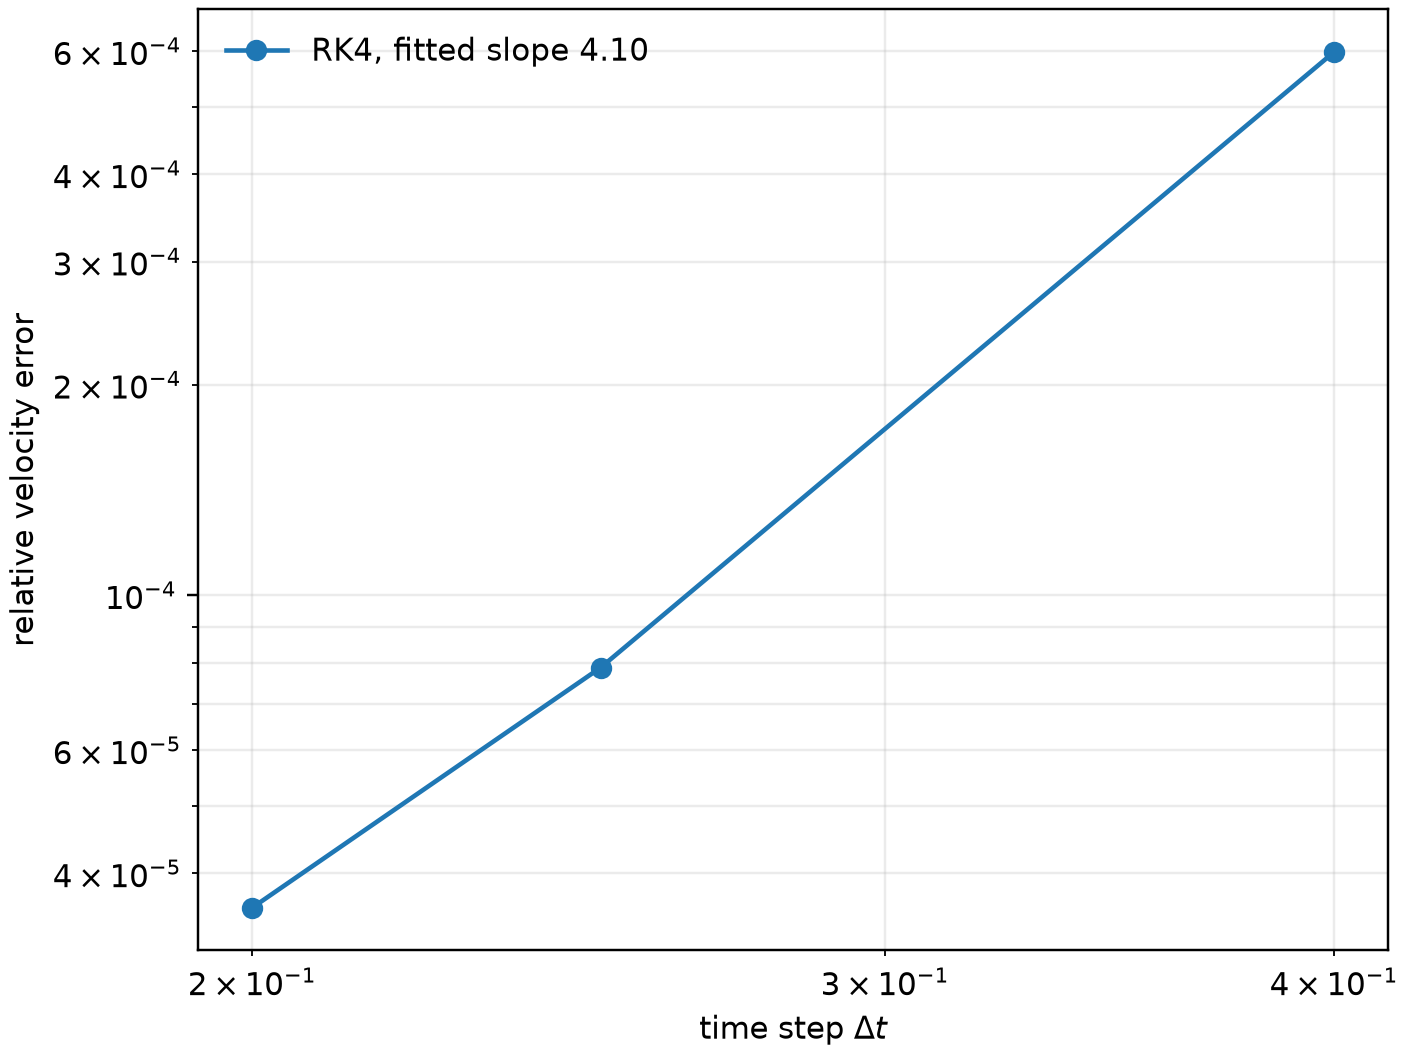
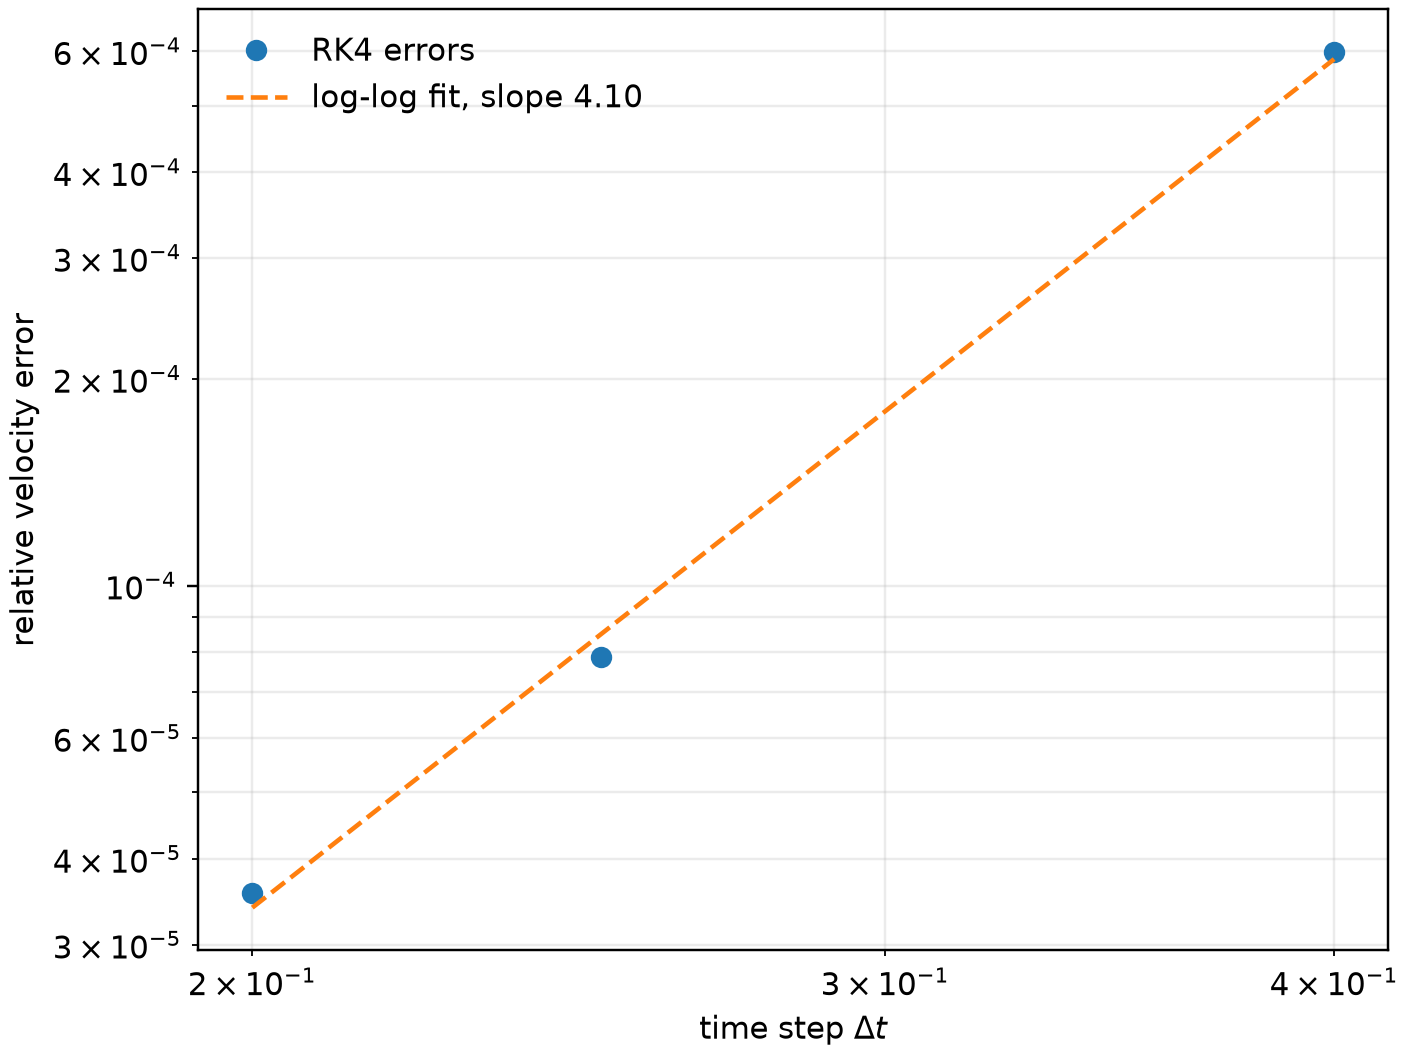
Show RK4 error fit separately

diff --git a/week4/scripts/order.py b/week4/scripts/order.py
@@ -27,11 +27,18 @@ for dt in steps:
     errors.append(error)
     print(f"RK4 dt={dt:g}: relative velocity error = {error:.17e}")
 errors = np.asarray(errors)
-slope = np.polyfit(np.log(steps), np.log(errors), 1)[0]
+slope, intercept = np.polyfit(np.log(steps), np.log(errors), 1)
 assert 3.5 < slope < 4.5
 
 fig, ax = plt.subplots(figsize=(6.4, 4.8), constrained_layout=True)
-ax.loglog(steps, errors, "o-", label=rf"RK4, fitted slope {slope:.2f}")
+fit_steps = np.geomspace(steps.min(), steps.max(), 100)
+ax.loglog(steps, errors, "o", label="RK4 errors")
+ax.loglog(
+    fit_steps,
+    np.exp(intercept) * fit_steps**slope,
+    "--",
+    label=rf"log-log fit, slope {slope:.2f}",
+)
 ax.set(xlabel=r"time step $\Delta t$", ylabel="relative velocity error")
 ax.grid(which="both", alpha=0.25)
 ax.legend(frameon=False)
